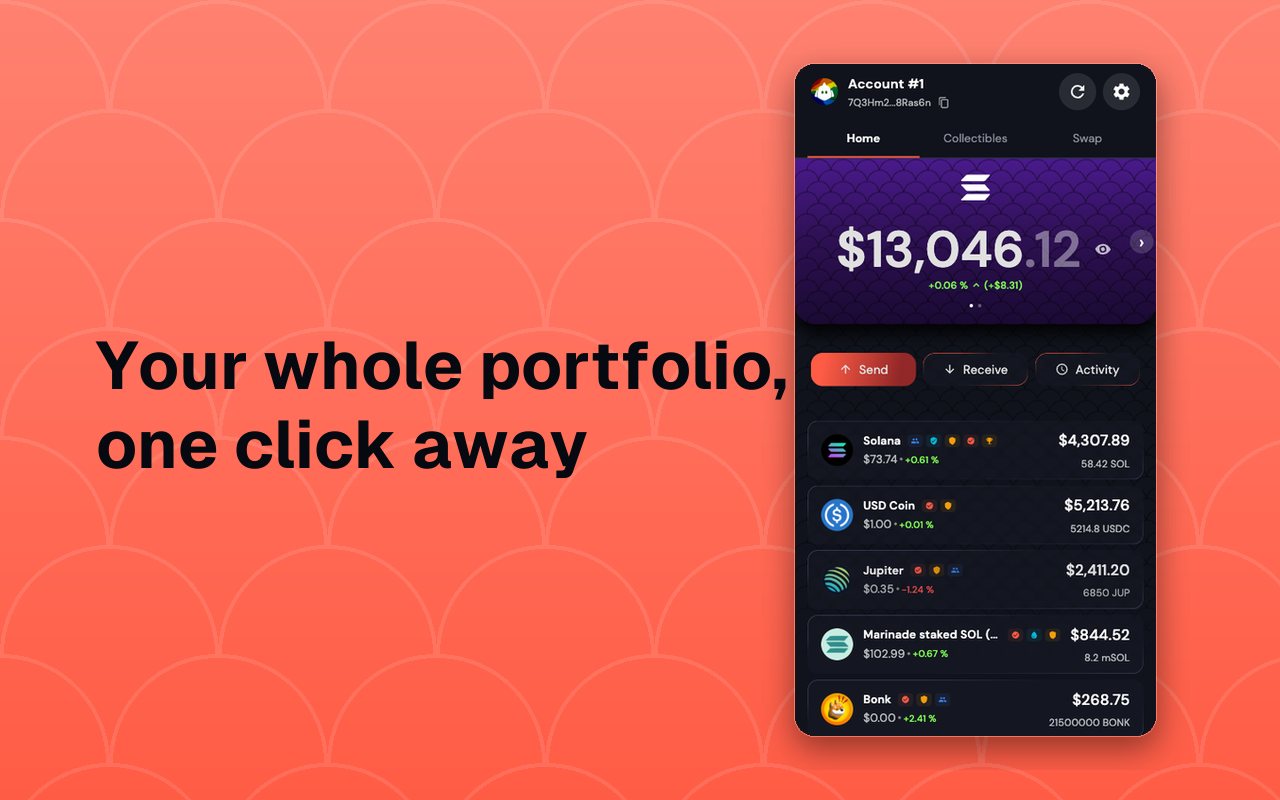
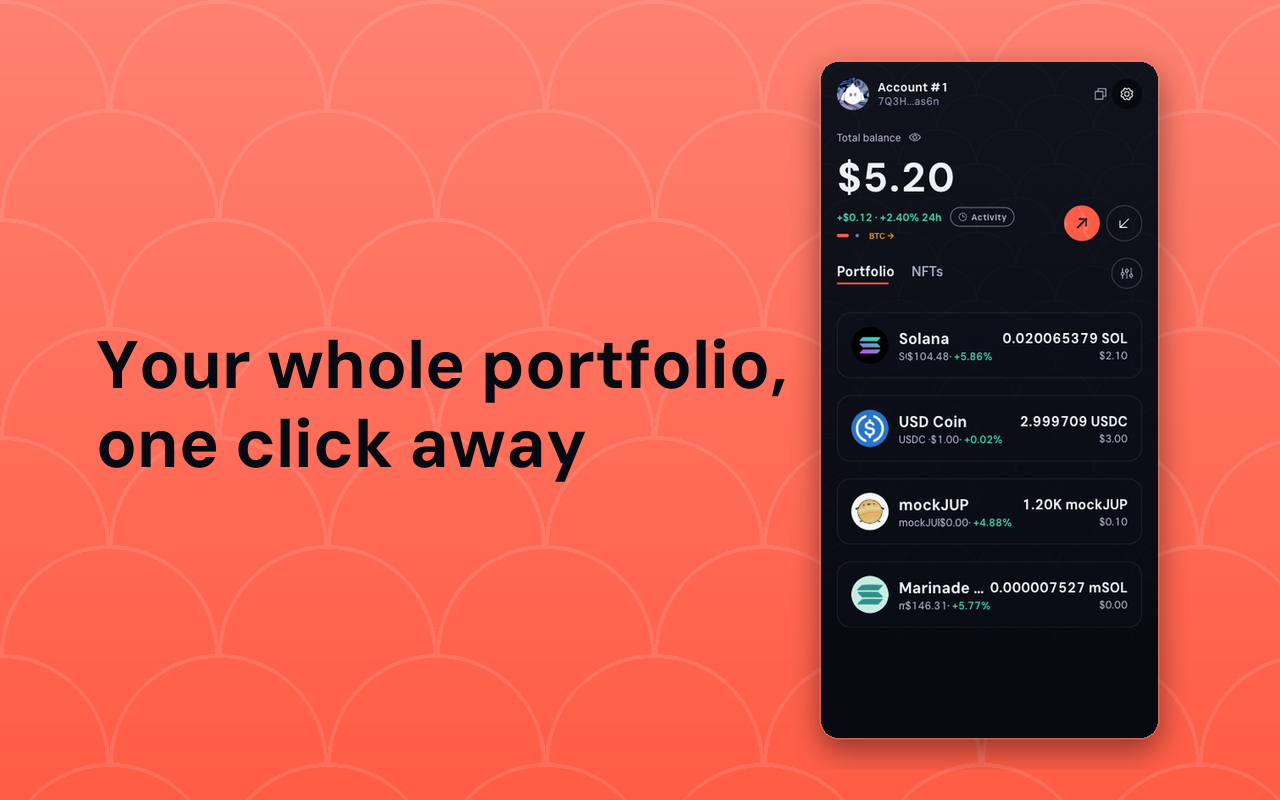
chore(store-assets): the store sets come from the redesign, without swap
Android: seven side-panel-free captures from the Pixel 9 Pro dev client on
the local backend, six Play frames composed; the Maestro store flow is
rewritten for the new anatomy (two subflows fixed for Maestro 2.4 and the
wordmark door), the swap flow deleted. Chrome Web Store: five captures from
the extension side panel at 400×800 composed to 1280×800 — interim, to be
re-taken once two DOM row bugs are fixed and the data is staged; the web-app
capture sources and scripts are gone. Four Playwright specs follow the new
anatomy (dialog sheets, four-step send, scoped header buttons). iOS stays
stale until a simulator build exists; the README says so and how.

Claude-Session: https://claude.ai/code/session_01861V9YaKMJ9mnXjMSEuhWA

Changed region(s): [[0.0938, 0.0625, 0.9062, 0.9375], [0.0938, 0.5312, 0.4688, 0.5938]]

diff --git a/apps/extension/.playwright/tests/send.spec.ts b/apps/extension/.playwright/tests/send.spec.ts
@@ -23,20 +23,26 @@ test('walks send entry → token → address-amount and cancels (no on-chain tx)
   await unlockOrRecover(popup);
   await waitHome(popup);
 
-  // Entry → token select
+  // Entry → the recipient step, the token chosen from its row (spec 028: four steps).
   await popup.getByTestId('home-send-button').click();
+  await expect(popup.getByTestId('send-recipient-screen')).toBeVisible();
+  await popup.getByTestId('send-selected-token').click();
   await expect(popup.getByTestId('send-token-search-input')).toBeVisible();
-
-  // Pick SOL → address-amount step
   await popup.getByTestId('send-token-row-SOL').click();
-  await expect(popup.getByTestId('send-recipient-input')).toBeVisible();
-  await expect(popup.getByTestId('send-amount-input')).toBeVisible();
+  await expect(popup.getByTestId('send-token-search-input')).toHaveCount(0, { timeout: 10_000 });
 
-  // Fill amount (safe; we never confirm) and exercise a quick-fill control.
+  // Recipient: Wallet B (never confirmed). Continue → the amount step.
+  await popup.getByTestId('send-recipient-input').fill(process.env.SALMON_TEST_WALLET_B_ADDR ?? '');
+  await popup.getByTestId('send-continue-button').click({ timeout: 30_000 });
+  await expect(popup.getByTestId('send-amount-screen')).toBeVisible();
+
+  // Fill an amount (safe; we never confirm) and see the presets.
   await popup.getByTestId('send-amount-input').fill('0.001');
-  await expect(popup.getByTestId('send-quickfill-MAX')).toBeVisible();
+  await expect(popup.getByTestId('send-shortcuts')).toBeVisible();
 
-  // Cancel out — never reaches the irreversible confirm step.
-  await popup.getByTestId('send-cancel-button').click();
+  // Back out — never reaches the review, let alone the confirm.
+  await popup.getByTestId('send-amount-screen').getByTestId('screen-header-back-button').click();
+  await expect(popup.getByTestId('send-recipient-screen')).toBeVisible();
+  await popup.getByTestId('send-recipient-screen').getByTestId('screen-header-back-button').click();
   await expect(popup.getByTestId('home-screen')).toBeVisible();
 });

diff --git a/apps/extension/.playwright/tests/activity.spec.ts b/apps/extension/.playwright/tests/activity.spec.ts
@@ -1,6 +1,6 @@
 /**
  * Activity flow: open the Activity surface from home and return, via the
- * data-testid contract (home-activity-button, activity-list/activity-empty,
+ * data-testid contract (home-activity-button, activity-list/activity-empty, activity-detail-sheet,
  * screen-header-back-button). If the test wallet has history, also steps into
  * the first row's detail — which replaces the list inside the same surface
  * rather than stacking a dialog on it — and steps back out to the list.
@@ -31,12 +31,11 @@ test('opens the activity list and returns home via the data-testid contract', as
   const row = popup.getByTestId('activity-tx-row').first();
   if (await row.count()) {
     await row.click();
-    await expect(popup.getByTestId('activity-detail-step')).toBeVisible();
-    await expect(popup.getByTestId('activity-list')).toHaveCount(0);
-
-    // Back is the mirror of the step: it returns to the list, and the surface
-    // stays open.
-    await popup.getByTestId('screen-header-back-button').click();
+    // The detail is a sheet over the list (spec 028): Escape drops it and the
+    // list is still there underneath, the surface still open.
+    await expect(popup.getByTestId('activity-detail-sheet')).toBeVisible();
+    await popup.keyboard.press('Escape');
+    await expect(popup.getByTestId('activity-detail-sheet')).toHaveCount(0, { timeout: 10_000 });
     await expect(popup.getByTestId('activity-list')).toBeVisible();
     await expect(popup.getByTestId('home-screen')).toHaveCount(0);
   }

diff --git a/apps/extension/.playwright/tests/settings.spec.ts b/apps/extension/.playwright/tests/settings.spec.ts
@@ -33,7 +33,10 @@ test('opens settings, visits read-only panels, and closes via the data-testid co
   await expect(popup.getByTestId('security-change-password-button')).toBeVisible({
     timeout: 10_000,
   });
-  await popup.getByTestId('screen-header-back-button').click();
+  await popup
+    .getByTestId('settings-panel-security')
+    .getByTestId('screen-header-back-button')
+    .click();
   // The panel-only control disappears once we pop back to the menu.
   await expect(popup.getByTestId('security-change-password-button')).toHaveCount(0, {
     timeout: 10_000,
@@ -42,10 +45,10 @@ test('opens settings, visits read-only panels, and closes via the data-testid co
   // About panel (static links only).
   await popup.getByTestId('settings-item-about').click();
   await expect(popup.getByTestId('about-link-website')).toBeVisible({ timeout: 10_000 });
-  await popup.getByTestId('screen-header-back-button').click();
+  await popup.getByTestId('settings-panel-about').getByTestId('screen-header-back-button').click();
   await expect(popup.getByTestId('about-link-website')).toHaveCount(0, { timeout: 10_000 });
 
-  // Close the drawer and land back on home.
-  await popup.getByTestId('settings-close-button').click();
+  // Settings is a screen (spec 028): its own header's back pops it to Home.
+  await popup.getByTestId('settings-screen').getByTestId('screen-header-back-button').click();
   await expect(popup.getByTestId('home-screen')).toBeVisible({ timeout: 10_000 });
 });

diff --git a/apps/extension/.playwright/tests/receive.spec.ts b/apps/extension/.playwright/tests/receive.spec.ts
@@ -1,7 +1,8 @@
 /**
- * Receive flow: open the receive sheet from home and close it, all via the
- * data-testid contract (home-receive-button, receive-sheet, receive-copy-button,
- * sheet-close-button). Skips when salmon-api is unreachable.
+ * Receive sheet smoke test: opens from Home and closes again, selecting by the
+ * data-testid contract (home-receive-button, receive-sheet, receive-copy-button).
+ * The sheet is a native <dialog> (spec 028): it closes on Escape, and leaves
+ * the DOM after its exit beat. No copying to clipboard, no on-chain calls.
  */
 import { test, expect } from '../fixtures';
 import { isBackendUp } from '../env';
@@ -23,7 +24,7 @@ test('opens and closes the receive sheet via the data-testid contract', async ({
   await expect(popup.getByTestId('receive-sheet')).toBeVisible();
   await expect(popup.getByTestId('receive-copy-button')).toBeVisible();
 
-  await popup.getByTestId('sheet-close-button').click();
-  await expect(popup.getByTestId('receive-sheet')).toHaveCount(0);
+  await popup.keyboard.press('Escape');
+  await expect(popup.getByTestId('receive-sheet')).toHaveCount(0, { timeout: 10_000 });
   await expect(popup.getByTestId('home-screen')).toBeVisible();
 });

diff --git a/store-assets/compose.py b/store-assets/compose.py
@@ -28,37 +28,35 @@ INK_ON_CORAL = (0x07, 0x09, 0x11)
 
 # Каждый frame: (capture, eyebrow, headline, background)
 DECK = [
-    # (captura, eyebrow, headline, fondo, stores)
+    # (captura, eyebrow, headline, fondo, stores). Swap left the deck on
+    # 2026-09-03: the powerups surface is closed for the submission.
     ("01-home",         "OPEN-SOURCE. SELF-CUSTODIAL.", "Your keys.\nYour coins.",         "coral", None),
     ("02-send",         None, "Send to any wallet\nor .sol name",                          "navy",  None),
-    ("07-swap",         None, "Swap,\nbuilt in.",                               "coral", None),
-    ("08-swap-review",  None, "See every fee\nbefore you sign",                            "navy",  None),
     ("03-transactions", None, "Your assets and activity,\none view.",                      "coral", None),
     ("04-collectibles", None, "Your NFTs,\nfront and center",                              "navy",  None),
     ("05-nft-detail",   None, "Every collectible,\nin detail",                             "coral", None),
     ("06-token-info",   None, "Live prices\nfor every token",                              "navy",  None),
-    # Play admite 8; about entra solo en App Store, que admite 10. Es el frame
-    # mas prescindible del deck: la pantalla About muestra version y links, no
-    # el producto en uso, que es lo que Play pide demostrar en las capturas.
-    ("09-about",        None, "If you can\u2019t verify it,\nyou don\u2019t own it.",     "coral", ("app-store",)),
+    # About is the most dispensable frame: version and links, not the product
+    # in use, which is what Play asks the captures to show. App Store only.
+    ("07-about",        None, "If you can\u2019t verify it,\nyou don\u2019t own it.",     "coral", ("app-store",)),
 ]
 
 CWS_DECK = [
     ("01-home",         "Your whole portfolio,\none click away",  "coral"),
-    ("02-swap",         "Swap without\nleaving the tab",          "navy"),
-    ("04-transactions", "Every transaction,\nin plain language",  "coral"),
-    ("03-collectibles", "Your NFTs,\nfront and center",           "navy"),
-    ("05-settings",     "Connect to dApps.\nSign with clarity.",  "coral"),
+    ("02-transactions", "Every transaction,\nin plain language",  "navy"),
+    ("03-collectibles", "Your NFTs,\nfront and center",           "coral"),
+    ("04-settings",     "Connect to dApps.\nSign with clarity.",  "navy"),
+    ("05-send",         "Send to any wallet\nor .sol name",       "coral"),
 ]
 
 STORES = {
     # name:        (canvas,        source dir,      output dir)
     "play":        ((1080, 1920), "android-staged", "play/phone"),
     "app-store":   ((1320, 2868), "ios-staged",     "app-store/iphone-6.9"),
-    # Apaisado: la captura web es una columna de 430x800, asi que va a la
-    # derecha y el caption ocupa la mitad izquierda — meterla centrada en un
-    # lienzo horizontal dejaria dos franjas vacias enormes.
-    "chrome-web-store": ((1280, 800), "web-staged/cropped", "chrome-web-store/screenshots"),
+    # Apaisado: la captura es el side panel (400x800), asi que va a la derecha
+    # y el caption ocupa la mitad izquierda — centrada en un lienzo horizontal
+    # dejaria dos franjas vacias enormes.
+    "chrome-web-store": ((1280, 800), "extension-staged", "chrome-web-store/screenshots"),
 }
 
 

diff --git a/store-assets/README.md b/store-assets/README.md
@@ -6,12 +6,24 @@ asset specs, Apple screenshot specs 2025+, AMO listing guide).
 
 | Store | What goes here | Required | Status |
 |---|---|---|---|
-| `play/` | `feature-graphic.png` 1024×500 (required), `icon-512.png` 512×512 32-bit with alpha (required), `phone/` 2–8 screenshots 9:16 (1080×1920 ✓), `listing.txt` copy | yes | **complete** |
-| `app-store/iphone-6.9/` | 1290×2796 or 1320×2868 portrait screenshots (the required tier since 2025) | yes, before first submission | **complete** — 9 frames at 1320×2868, captured via Maestro on an iPhone 16 Pro Max simulator |
-| `chrome-web-store/` | `screenshots/` 1280×800 (min 1, up to 5), `store-icon-128.png` (96×96 art in 128 canvas ✓), `promo-small-440x280.png` (required — listings without it rank below listings that have one) | yes | **complete** — 5 screenshots captured with the Playwright harness at a 1280×800 viewport |
+| `play/` | `feature-graphic.png` 1024×500 (required), `icon-512.png` 512×512 32-bit with alpha (required), `phone/` 2–8 screenshots 9:16 (1080×1920 ✓), `listing.txt` copy | yes | **complete** — 6 frames on the redesign (2026-09-03, dark mode, Pixel 9 Pro emulator via `flows/store/capture.yaml`); no swap frame |
+| `app-store/iphone-6.9/` | 1290×2796 or 1320×2868 portrait screenshots (the required tier since 2025) | yes, before first submission | **STALE** — the 9 frames are the previous design (incl. two swap frames); re-capture needs the iOS dev build installed on a simulator (`pnpm --filter mobile ios`), then `run.sh --device <udid> -e OUT=… flows/store/capture.yaml` and `compose.py app-store` |
+| `chrome-web-store/` | `screenshots/` 1280×800 (min 1, up to 5), `store-icon-128.png` (96×96 art in 128 canvas ✓), `promo-small-440x280.png` (required — listings without it rank below listings that have one) | yes | **complete** — 5 screenshots from the extension side panel (400×800 captures via `apps/extension/.playwright/scripts/store-shots.mjs`), composed by `compose.py chrome-web-store` |
 | `amo/screenshots/` | 1280×800 recommended (1.6:1) | recommended | empty — can reuse the CWS captures, but prefer un-captioned crops: AMO advises against text on the image |
 | `play/tablet-7/` · `play/tablet-10/` | 4–8 screenshots each, 1,080–7,680px, 9:16 or 16:9 | no, but see below | **missing** — never captured |
-| `source/` | raw, unframed captures (Maestro / Playwright output) before any framing | — | `android-staged/`, `ios-staged/`, `web-staged/` (web app retired 2026-09-02 — Chrome Web Store set must be re-captured from the extension side panel; pending) |
+| `source/` | raw, unframed captures (Maestro / Playwright output) before any framing | — | `android-staged/` (7, redesign), `ios-staged/` (9, previous design — stale), `extension-staged/` (side panel 400×800) |
+
+## Staging (2026-09-03)
+
+The 2026-08 deck was captured against a mock backend that staged a $13,046.12
+portfolio; that mock server was never committed. The 2026-09-03 captures run
+against the **live** local backend with Wallet A from `.env.test` (the same
+fixture wallet the e2e suites use) — real, small balances. Apple §2.3.9 wants
+fictional data, so before the next submission either commit a mock (a Node
+proxy in front of `salmon-api` that stages the balance, history and NFT
+endpoints and passes everything else through; `EXPO_PUBLIC_API_HOST/PORT` for
+mobile, `context.route()` in the Playwright script for the side panel) or
+accept the live figures. The capture flows do not care which.
 
 ## Tablets: deliberately deferred (2026-08-07)
 
